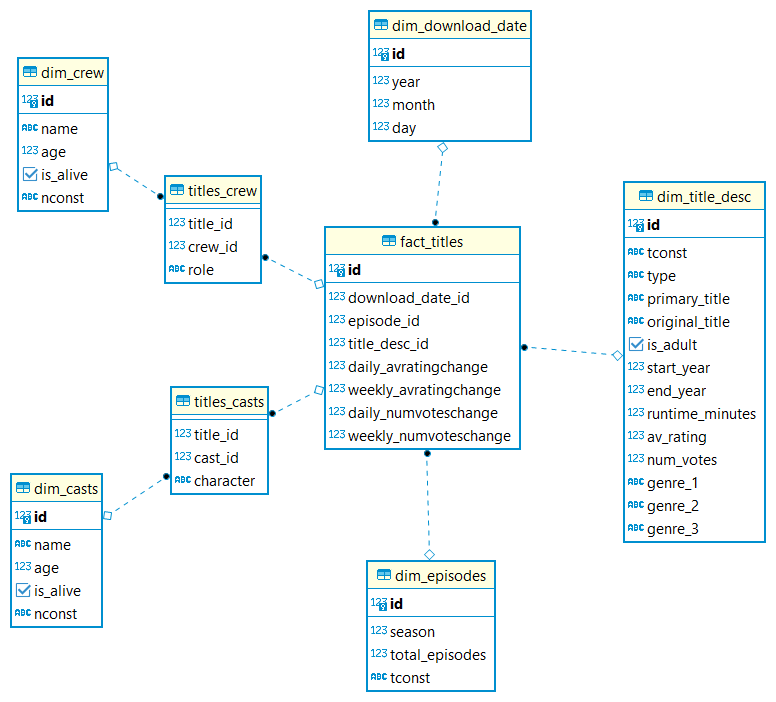
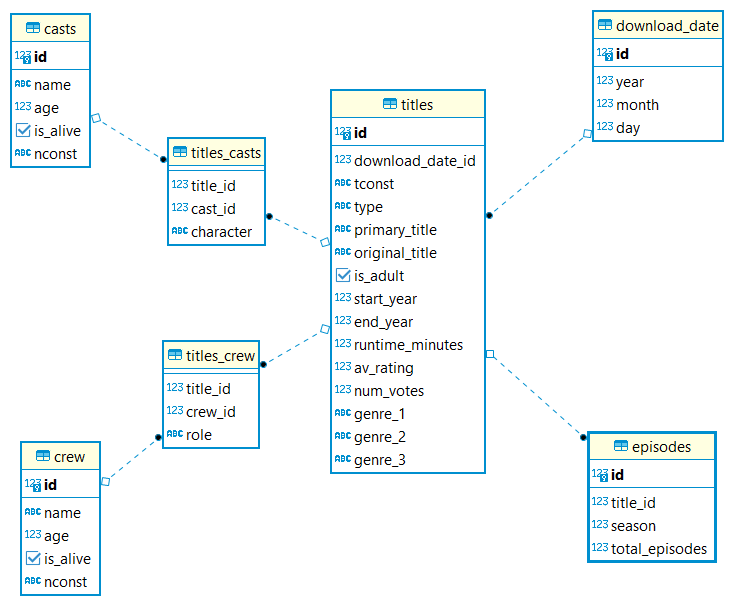
update schema

diff --git a/airflow/dags/create_tables.py b/airflow/dags/create_tables.py
@@ -14,11 +14,11 @@ with DAG(
     tags=['postgres'],
 ) as dag:
 
-    create_dim_download_date_table = PostgresOperator(
-        task_id="create_dim_download_date_table",
+    create_download_date_table = PostgresOperator(
+        task_id="create_download_date_table",
         postgres_conn_id="imdb_postgres",
         sql="""
-        CREATE TABLE IF NOT EXISTS dim_download_date (
+        CREATE TABLE IF NOT EXISTS download_date (
             id SERIAL PRIMARY KEY,
             year SMALLINT NOT NULL,
             month SMALLINT NOT NULL,
@@ -27,25 +27,26 @@ with DAG(
         """,
     )
 
-    create_dim_episodes_table = PostgresOperator(
-        task_id="create_dim_episodes_table",
+    create_episodes_table = PostgresOperator(
+        task_id="create_episodes_table",
         postgres_conn_id="imdb_postgres",
         sql="""
-        CREATE TABLE IF NOT EXISTS dim_episodes (
+        CREATE TABLE IF NOT EXISTS episodes (
             id SERIAL PRIMARY KEY,
+            title_id INT REFERENCES titles (id),
             season SMALLINT,
-            total_episodes SMALLINT,
-            tconst VARCHAR(20) NOT NULL
+            total_episodes SMALLINT
         );
         """,
     )    
 
-    create_dim_title_desc_table = PostgresOperator(
-        task_id="create_dim_title_desc_table",
+    create_titles_table = PostgresOperator(
+        task_id="create_titles_table",
         postgres_conn_id="imdb_postgres",
         sql="""
-        CREATE TABLE IF NOT EXISTS dim_title_desc (
+        CREATE TABLE IF NOT EXISTS titles (
             id SERIAL PRIMARY KEY,
+            download_date_id INT,
             tconst VARCHAR(20) UNIQUE NOT NULL,
             type VARCHAR(40),
             primary_title VARCHAR(800) NOT NULL,
@@ -63,11 +64,11 @@ with DAG(
         """,
     )    
 
-    create_dim_casts_table = PostgresOperator(
-        task_id="create_dim_casts_table",
+    create_casts_table = PostgresOperator(
+        task_id="create_casts_table",
         postgres_conn_id="imdb_postgres",
         sql="""
-        CREATE TABLE IF NOT EXISTS dim_casts (
+        CREATE TABLE IF NOT EXISTS casts (
             id SERIAL PRIMARY KEY,
             name VARCHAR(200) NOT NULL,
             age SMALLINT,
@@ -76,41 +77,12 @@ with DAG(
         );
         """,
     )        
- 
-    create_fact_titles_table = PostgresOperator(
-        task_id="create_fact_titles_table",
-        postgres_conn_id="imdb_postgres",
-        sql="""
-        CREATE TABLE IF NOT EXISTS fact_titles (
-            id SERIAL PRIMARY KEY,
-            download_date_id INT REFERENCES dim_download_date (id),
-            episode_id INT REFERENCES dim_episodes (id),
-            title_desc_id INT REFERENCES dim_title_desc (id),                   
-            daily_avRatingChange FLOAT(2),
-            weekly_avRatingChange FLOAT(2),
-            daily_numVotesChange INT,
-            weekly_numVotesChange INT
-        );
-        """,
-    )      
 
-    create_titles_crew_table = PostgresOperator(
-        task_id="create_titles_crew_table",
+    create_crew_table = PostgresOperator(
+        task_id="create_crew_table",
         postgres_conn_id="imdb_postgres",
         sql="""
-        CREATE TABLE IF NOT EXISTS titles_crew (
-            title_id INT,
-            crew_id INT REFERENCES dim_crew (id),
-            role VARCHAR(50)
-        );
-        """,
-    )                             
-
-    create_dim_crew_table = PostgresOperator(
-        task_id="create_dim_crew_table",
-        postgres_conn_id="imdb_postgres",
-        sql="""
-        CREATE TABLE IF NOT EXISTS dim_crew (
+        CREATE TABLE IF NOT EXISTS crew (
             id SERIAL PRIMARY KEY,
             name VARCHAR(200) NOT NULL,
             age SMALLINT,
@@ -125,24 +97,32 @@ with DAG(
         postgres_conn_id="imdb_postgres",
         sql="""
         CREATE TABLE IF NOT EXISTS titles_casts (
-            title_id INT,
-            cast_id INT REFERENCES dim_casts (id),
+            title_id INT REFERENCES titles (id),
+            cast_id INT REFERENCES casts (id),
             character VARCHAR(300)
         );
         """,
-    )                                                                  
+    )      
+
+    create_titles_crew_table = PostgresOperator(
+        task_id="create_titles_crew_table",
+        postgres_conn_id="imdb_postgres",
+        sql="""
+        CREATE TABLE IF NOT EXISTS titles_crew (
+            title_id INT REFERENCES titles (id),
+            crew_id INT REFERENCES crew (id),
+            role VARCHAR(50)
+        );
+        """,
+    )                             
 
     set_fkey = PostgresOperator(
         task_id="set_fkey",
         postgres_conn_id="imdb_postgres",
         sql="""
-        ALTER TABLE titles_casts 
-        ADD CONSTRAINT titles_casts_title_id_fkey FOREIGN KEY (title_id)
-        REFERENCES fact_titles (id);
-
-        ALTER TABLE titles_crew 
-        ADD CONSTRAINT titles_crew_title_id_fkey FOREIGN KEY (title_id)
-        REFERENCES fact_titles (id);
+        ALTER TABLE titles
+        ADD CONSTRAINT titles_download_date_id_fkey FOREIGN KEY (download_date_id)
+        REFERENCES download_date (id);
         """,
     )                  
 
@@ -162,11 +142,9 @@ with DAG(
         """,
     )   
 
-    drop_schema >> create_schema
-    create_schema >> create_dim_title_desc_table >> create_fact_titles_table
-    create_schema >> create_dim_download_date_table >> create_fact_titles_table
-    create_schema >> create_dim_episodes_table >> create_fact_titles_table 
-    create_schema >> create_dim_crew_table >> create_titles_crew_table >> create_fact_titles_table
-    create_schema >> create_dim_casts_table >> create_titles_casts_table >> create_fact_titles_table
-    
-    create_fact_titles_table >> set_fkey
+    drop_schema >> create_schema 
+    create_schema >> create_titles_table >> set_fkey
+    create_schema >> create_download_date_table >> set_fkey
+    create_titles_table >> create_episodes_table  
+    create_titles_table >> create_crew_table >> create_titles_crew_table 
+    create_titles_table >> create_casts_table >> create_titles_casts_table 
